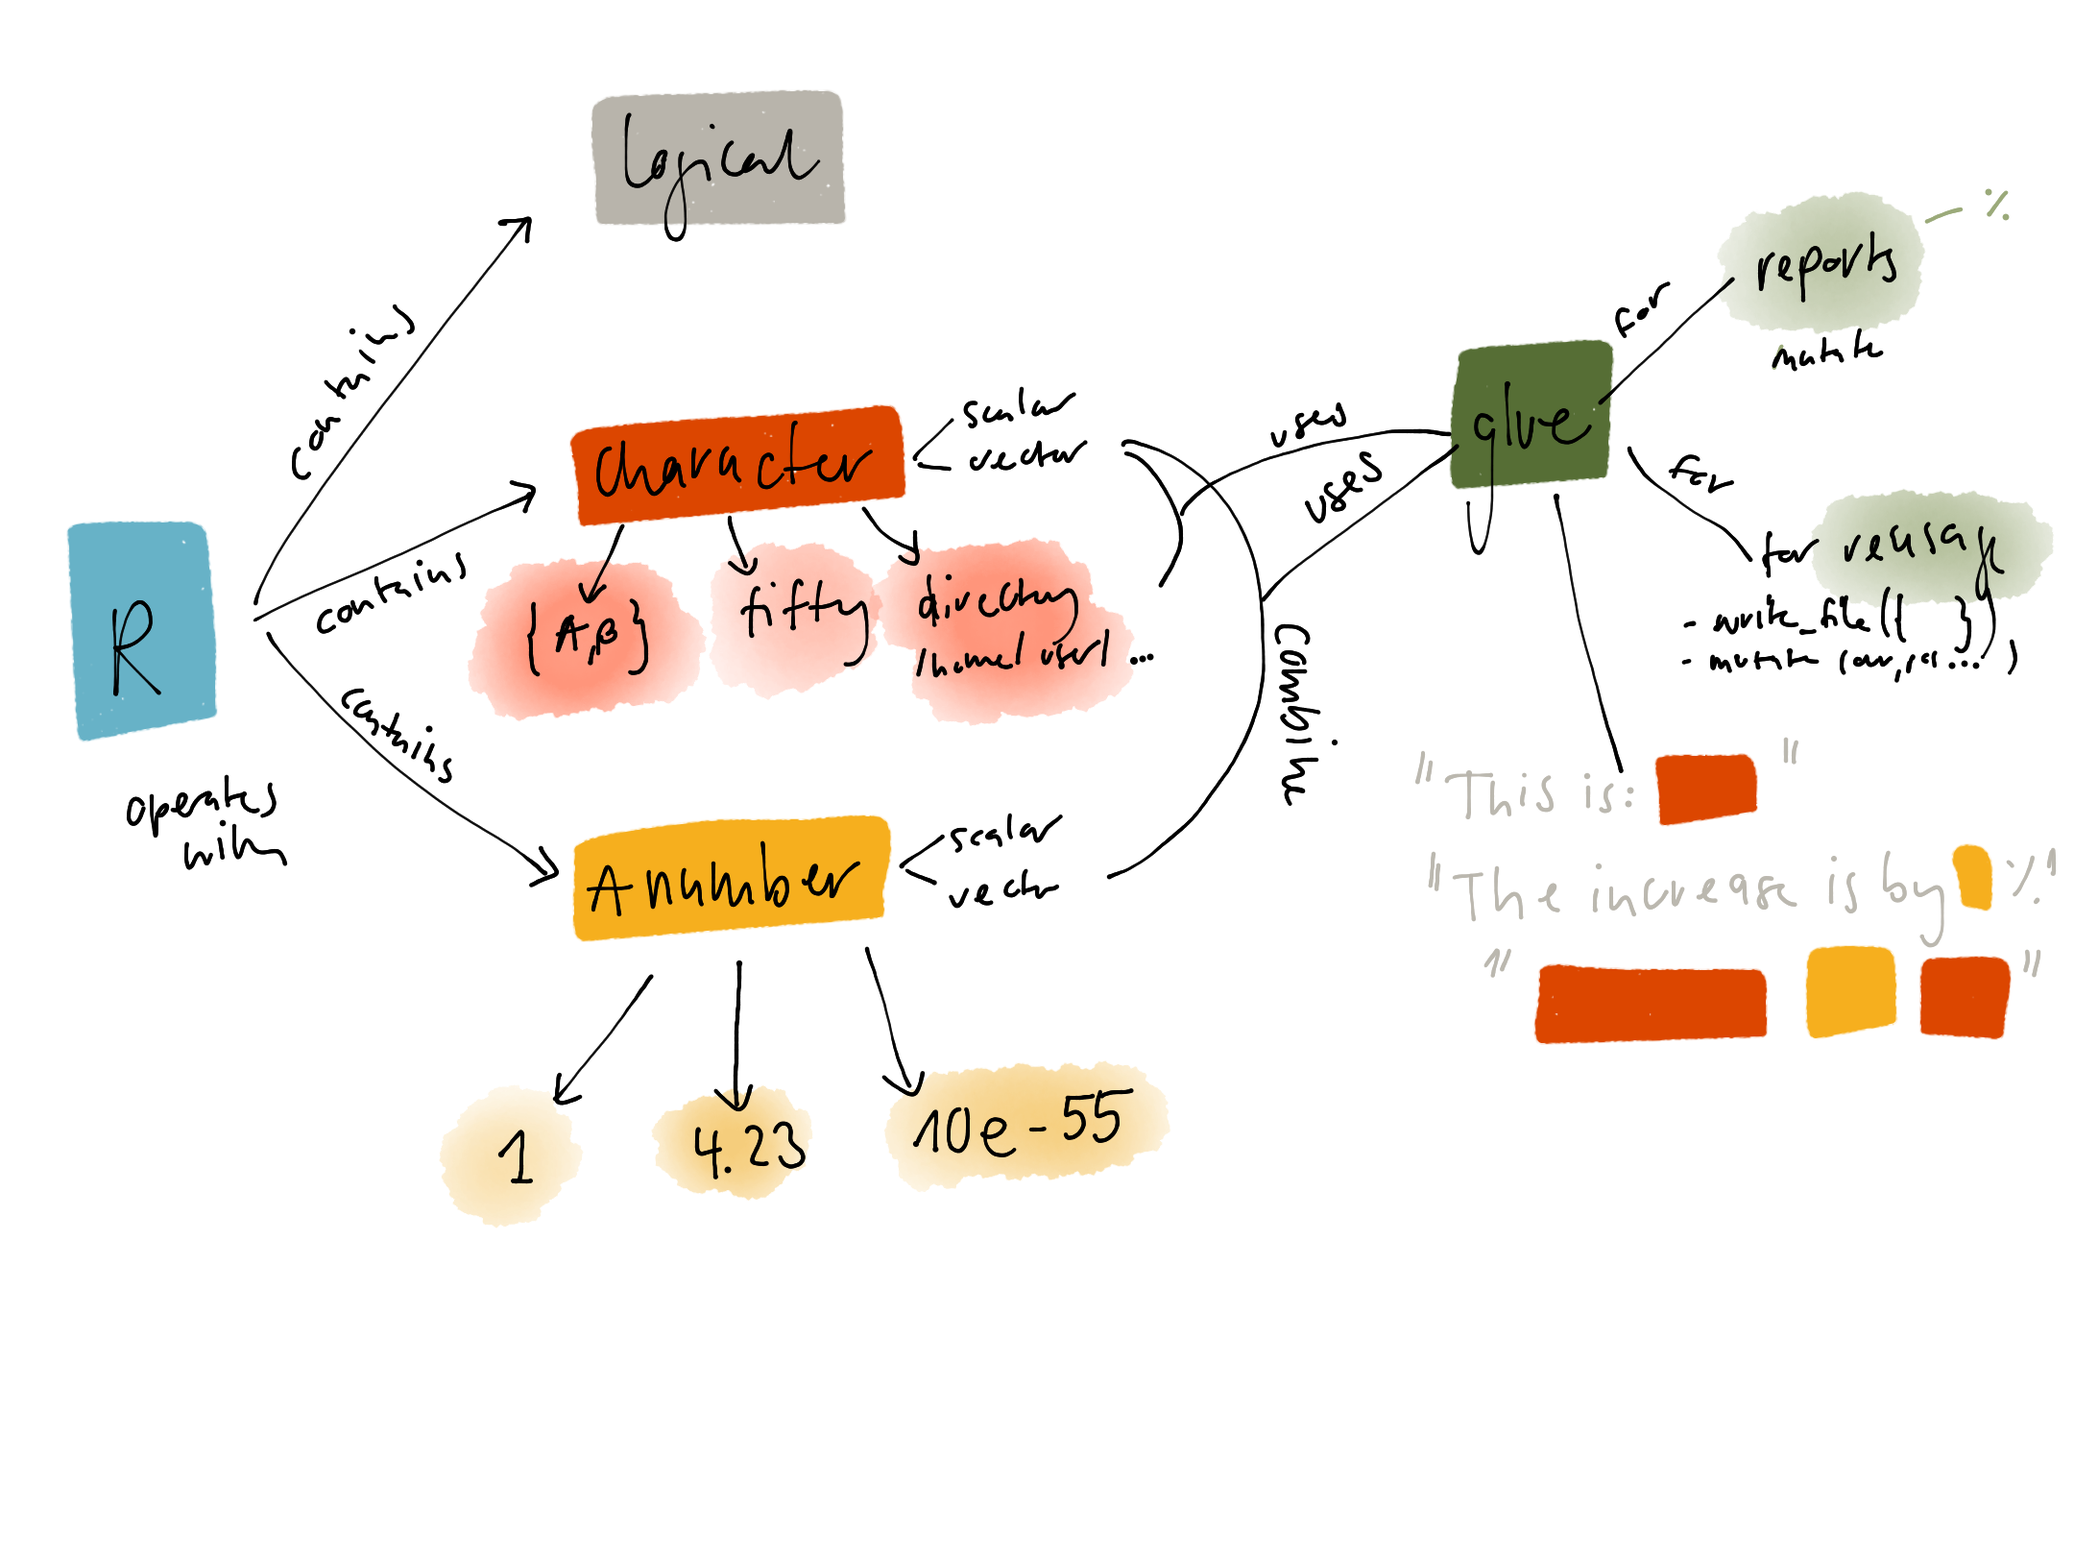
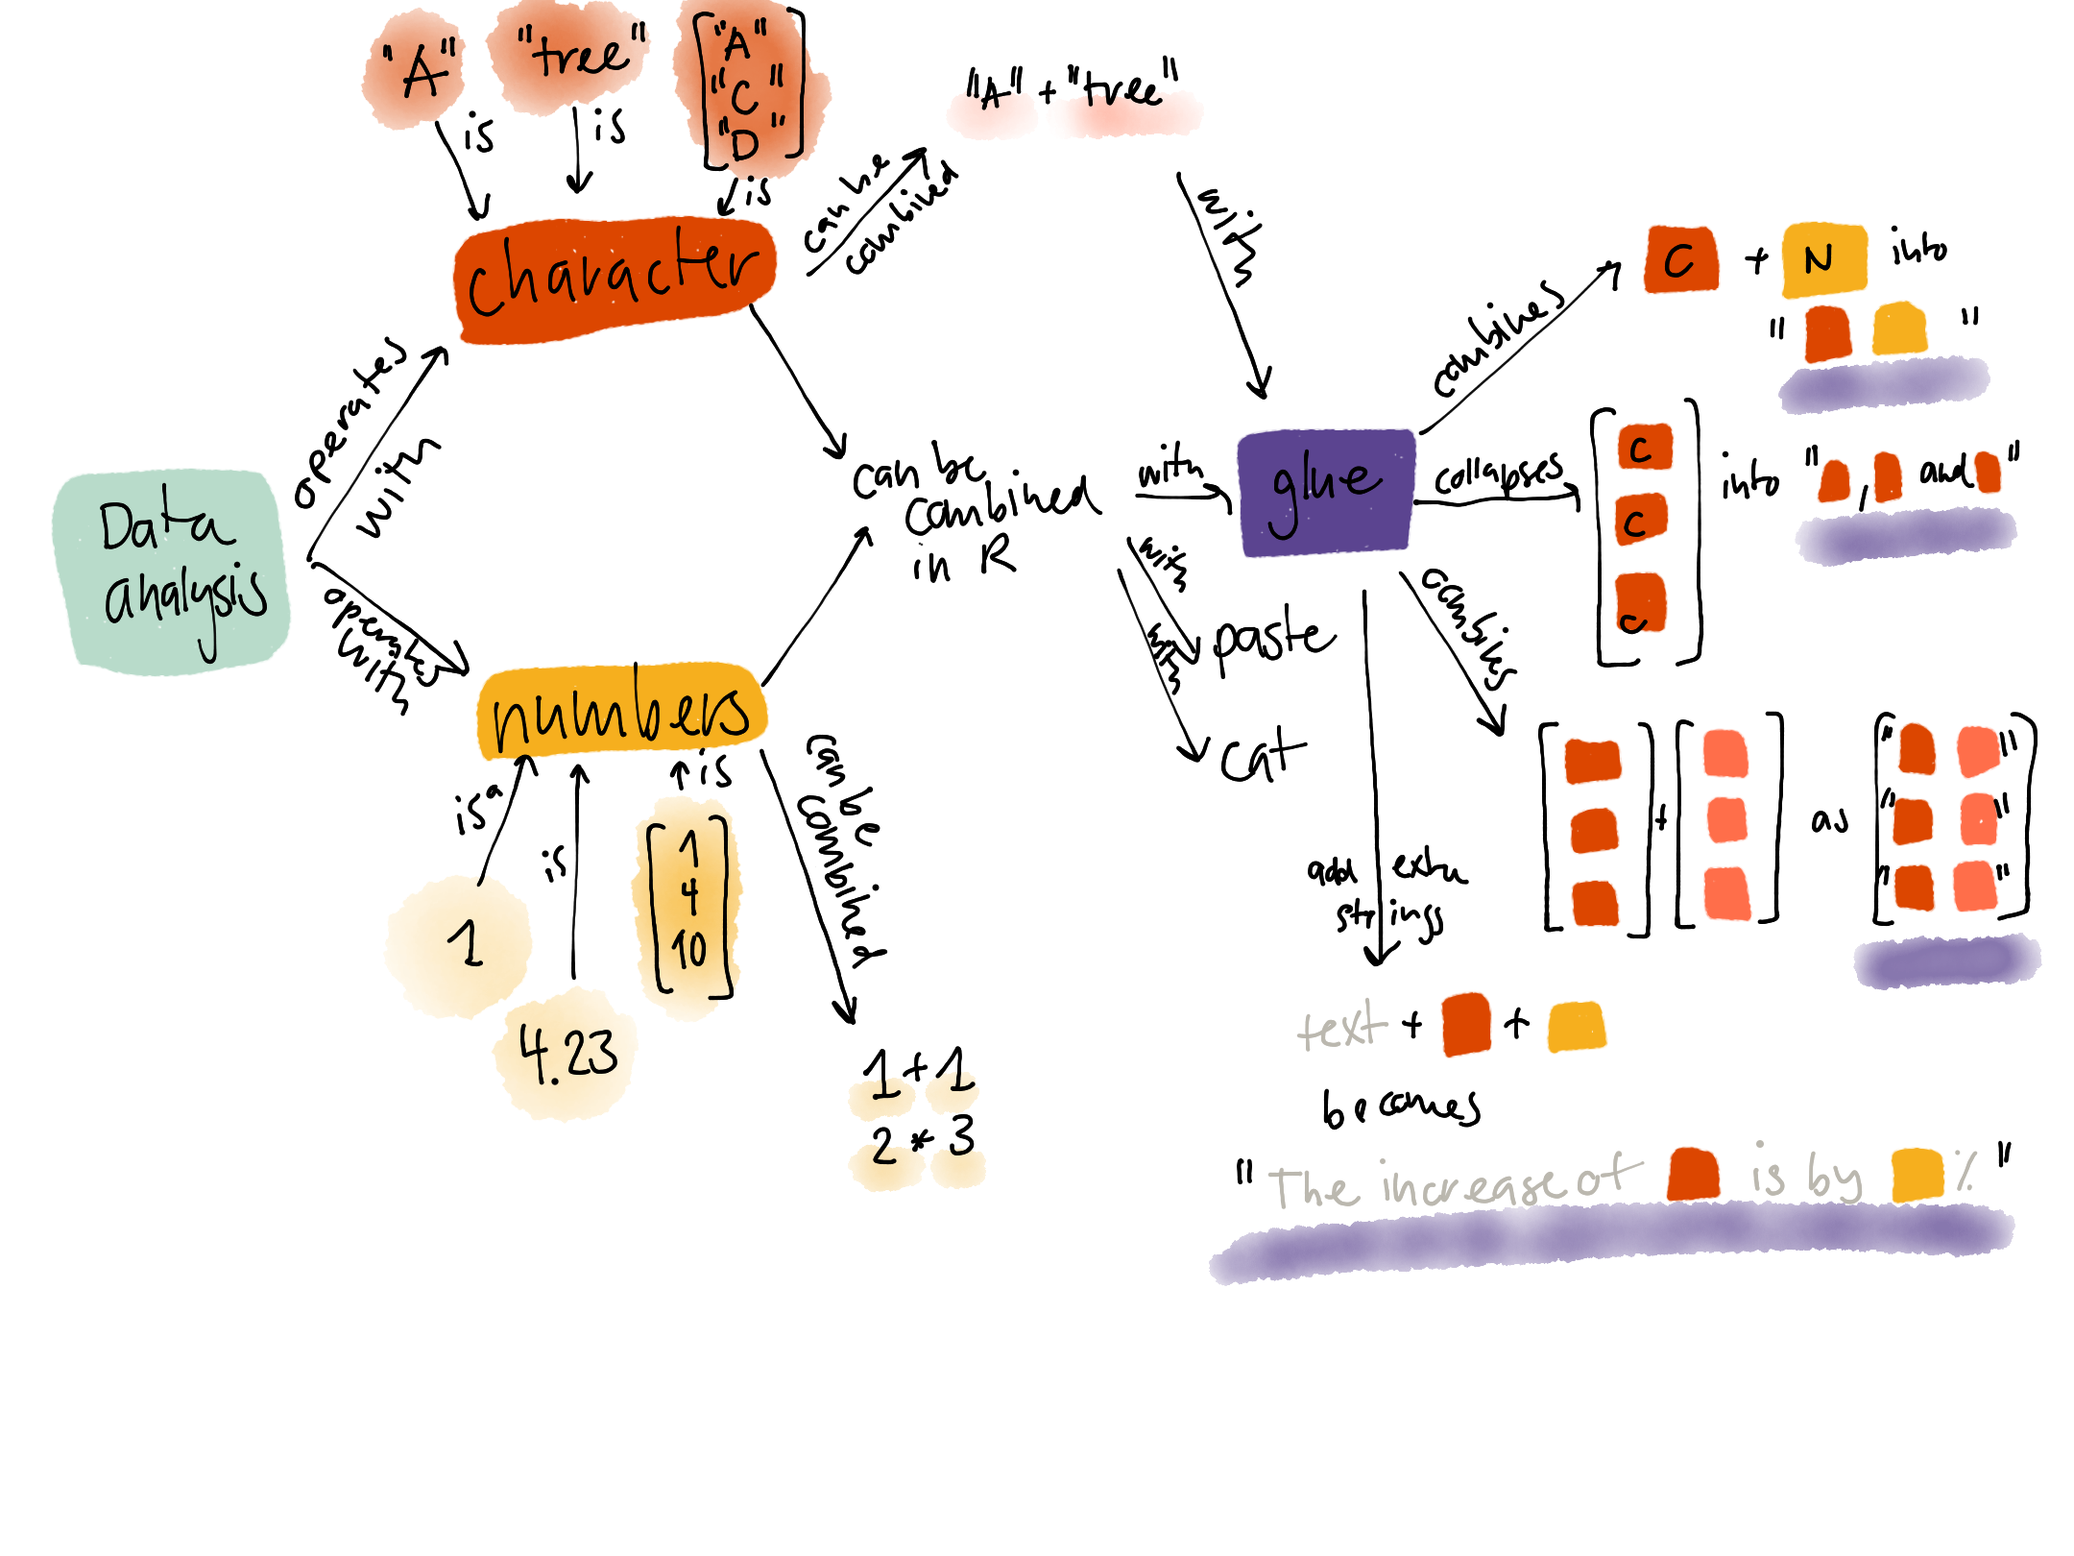
update flides

diff --git a/glue.html b/glue.html
@@ -375,45 +375,66 @@ summary {
 <p>Sometimes you want to do the following:</p>
 <div id="write-analysis-results-as-inline-text" class="section level3">
 <h3>1. Write analysis results as inline text</h3>
-<pre><code>## # A tibble: 100 x 2
-##    id     state        
-##    &lt;fct&gt;  &lt;fct&gt;        
-##  1 id_732 Uusimaa      
-##  2 id_467 Ostrobothnia 
-##  3 id_538 South Karelia
-##  4 id_248 South Karelia
-##  5 id_507 South Karelia
-##  6 id_829 Uusimaa      
-##  7 id_228 Lapland      
-##  8 id_163 Ostrobothnia 
-##  9 id_363 Uusimaa      
-## 10 id_653 Lapland      
-## # … with 90 more rows</code></pre>
+<p>You have a dataset, such as the following data about individuals and their current living region in Finland:</p>
+<pre><code># A tibble: 100 x 2
+   id     state        
+   &lt;fct&gt;  &lt;fct&gt;        
+ 1 id_232 Uusimaa      
+ 2 id_326 Lapland      
+ 3 id_504 Lapland      
+ 4 id_356 Lapland      
+ 5 id_601 South Karelia
+ 6 id_237 South Karelia
+ 7 id_744 Lapland      
+ 8 id_515 Ostrobothnia 
+ 9 id_927 Uusimaa      
+10 id_619 Ostrobothnia 
+# … with 90 more rows</code></pre>
+<p>And you would like to make a statement in an R markdown file as follows:</p>
+<pre><code>```{r}
+states &lt;- &quot;Ostrobothnia, Uusimaa, South Karelia and Lapland&quot;
+```
+The study participants were from four different Finnish states: `r states`. </code></pre>
+<p>so it produces:</p>
+<blockquote>
 <p>The study participants were from four different Finnish states: Ostrobothnia, Uusimaa, South Karelia and Lapland.</p>
+</blockquote>
 </div>
 <div id="create-a-new-column-as-a-function-of-two-text-columns" class="section level3">
 <h3>2. Create a new column as a function of two (text) columns</h3>
-<pre><code>## # A tibble: 3 x 3
-##   chromosome position variant
-##        &lt;dbl&gt;    &lt;dbl&gt; &lt;glue&gt; 
-## 1          1       50 chr1_50
-## 2          1       30 chr1_30
-## 3          3       70 chr3_70</code></pre>
+<p>We can create a new column as a function of two numeric columns, for example calcualte the BMI based on a weight and a height column.</p>
+<p>We can also concatenate columns, ultimately yielding character columns.</p>
+<p>Here is an example where where we concatenate two columns that are integers, but become characters once combined.</p>
+<pre><code># A tibble: 3 x 3
+  chromosome position variant
+       &lt;dbl&gt;    &lt;dbl&gt; &lt;chr&gt;  
+1          1       50 chr1_50
+2          1       30 chr1_30
+3          3       70 chr3_70</code></pre>
 </div>
 <div id="custom-output-file-path" class="section level3">
-<h3>3. custom output file path</h3>
-<p>define a directory at the beginning of a script and store everything there</p>
+<h3>3. Custom output file path</h3>
+<p>During the course of a data analysis, we want to store out data or data visualizations using the same basename <code>/data/haemoglobin/experiment-2020-07-13</code>:</p>
 <pre class="r"><code>## save a plot
 ggsave(&quot;/data/haemoglobin/experiment-2020-07-13.pdf&quot;)
 
 ## save data
 write_tsv(data, path = &quot;/data/haemoglobin/experiment-2020-07-13.tsv&quot;)</code></pre>
+<p>Instead of repetition, it would be handy if we could do the following:</p>
+<pre class="r"><code>basename &lt;- &quot;/data/haemoglobin/experiment-2020-07-13&quot;
+
+## save a plot
+ggsave(&quot;{basename}.pdf&quot;)
+
+## save data
+write_tsv(data, path = &quot;{basename}.tsv&quot;)</code></pre>
 </div>
 </div>
 <div id="solution-combining-r-data-objects-into-strings" class="section level2">
 <h2>Solution: Combining R data objects into strings</h2>
+<p>For these three examples, there is a solution that uses the same framework.</p>
 <p><code>This is some text {NUMBER} and {NUMBER}</code></p>
-<p>For example:</p>
+<p>For example, if we define <code>NUMBER_SUN</code> and <code>NUMBER_SNOW</code>, then</p>
 <pre><code>This year,  South of Finland had on average 
 {NUMBER_SUN} days of sunshine and {NUMBER_SNOW} of days snowfall</code></pre>
 <p>results in</p>
@@ -422,27 +443,39 @@ write_tsv(data, path = &quot;/data/haemoglobin/experiment-2020-07-13.tsv&quot;)<
 </div>
 <div id="glue" class="section level2">
 <h2>Glue!</h2>
+<p>The R package <a href="https://github.com/tidyverse/glue">glue</a> does exactly that.</p>
+<p>Here is the example from before:</p>
 <pre class="r"><code>glue(&quot;This year,  South of Finland had on average {NUMBER_SUN} 
      days of sunshine and {NUMBER_SNOW} of days snowfall&quot;, 
      NUMBER_SUN = 50, NUMBER_SNOW = 3)</code></pre>
 <pre><code>This year,  South of Finland had on average 50 
 days of sunshine and 3 of days snowfall</code></pre>
+<p>If you have used the function <code>paste</code> before, then think of glue as the tidyverse answer to paste.</p>
 </div>
 <div id="live-coding" class="section level2">
 <h2>Live coding</h2>
 <pre class="r"><code>## install.packages(&quot;glue&quot;)
 library(glue)
 library(dplyr)</code></pre>
-<div id="glue-two-scalars" class="section level3">
-<h3>glue two scalars</h3>
+<p>Explore all functions:</p>
+<pre class="r"><code>apropos(&quot;glue&quot;)</code></pre>
+<pre><code> [1] &quot;as_glue&quot;        &quot;glue&quot;           &quot;glue_col&quot;       &quot;glue_collapse&quot; 
+ [5] &quot;glue_data&quot;      &quot;glue_data_col&quot;  &quot;glue_data_safe&quot; &quot;glue_data_sql&quot; 
+ [9] &quot;glue_safe&quot;      &quot;glue_sql&quot;      </code></pre>
+<p>We are going to look at - <code>glue</code> - <code>glue_collapse</code> - <code>glue_data</code></p>
+<div id="glue-two-elements" class="section level3">
+<h3>Glue two elements</h3>
+<p>Glue one element (<code>animals</code>).</p>
 <pre class="r"><code>animals &lt;- &quot;Elephants&quot;
-number &lt;- 3
-glue(&quot;There were {animals}&quot;)</code></pre>
-<pre><code>## There were Elephants</code></pre>
-<pre class="r"><code>glue(&quot;There were {number} {animals}&quot;)</code></pre>
-<pre><code>## There were 3 Elephants</code></pre>
-<pre class="r"><code>glue(&quot;There were {number} {animals}&quot;, number = 2, animals = &quot;Giraffe&quot;)</code></pre>
-<pre><code>## There were 2 Giraffe</code></pre>
+glue(&quot;There were {animals}.&quot;)</code></pre>
+<pre><code>There were Elephants.</code></pre>
+<p>Glue two elements.</p>
+<pre class="r"><code>number &lt;- 3
+glue(&quot;There were {number} {animals}.&quot;)</code></pre>
+<pre><code>There were 3 Elephants.</code></pre>
+<p>Glue two elements, but define them within the `glue`` command.</p>
+<pre class="r"><code>glue(&quot;There were {number} {animals}.&quot;, number = 2, animals = &quot;Giraffe&quot;)</code></pre>
+<pre><code>There were 2 Giraffe.</code></pre>
 </div>
 <div id="exercise" class="section level3">
 <h3>Exercise</h3>
@@ -450,79 +483,115 @@ glue(&quot;There were {animals}&quot;)</code></pre>
 <pre class="r"><code>metric &lt;- &quot;celsius&quot;
 temperature &lt;- 20.2
 glue(&quot;Yesterdays average temperature was [metric] [temperature].&quot;)</code></pre>
-<pre><code>## Yesterdays average temperature was [metric] [temperature].</code></pre>
 </div>
 <div id="collapse-vector" class="section level3">
 <h3>Collapse vector</h3>
 <p>Collapse the elements in a vector</p>
-<pre class="r"><code>genes &lt;- c(&quot;FTO&quot;, &quot;PSCK3&quot;, &quot;DTN3&quot;, &quot;NRT&quot;)
+<pre class="r"><code>genes &lt;- c(&quot;FTO&quot;, &quot;PSCK3&quot;, &quot;DTN3&quot;)
 glue_collapse(genes)</code></pre>
-<pre><code>## FTOPSCK3DTN3NRT</code></pre>
+<pre><code>FTOPSCK3DTN3</code></pre>
+<p>Collapse the elements and separate them with a <code>+</code>.</p>
 <pre class="r"><code>glue_collapse(genes, sep = &quot; + &quot;)</code></pre>
-<pre><code>## FTO + PSCK3 + DTN3 + NRT</code></pre>
+<pre><code>FTO + PSCK3 + DTN3</code></pre>
 </div>
 <div id="exercise-1" class="section level3">
 <h3>Exercise</h3>
-<p>Predict the output of the following R code and choose solution 1, 2 or 3 below.</p>
-<pre class="r"><code>trees &lt;- c(&quot;pine&quot;, &quot;fir&quot;, &quot;cedar&quot;, &quot;spruce&quot;, &quot;hemlock&quot;)
+<p>Predict the output of the following R code and choose solution 1, 2, 3 or 4 below.</p>
+<pre class="r"><code>trees &lt;- c(&quot;pine&quot;, &quot;fir&quot;, &quot;cedar&quot;)
 glue_collapse(trees, sep = &quot;,&quot;, last = &quot;and&quot;)</code></pre>
-<pre><code>## pine,fir,cedar,spruceandhemlock</code></pre>
+<pre><code>pine,firandcedar</code></pre>
 <ol style="list-style-type: decimal">
-<li><code>pine, fir, cedar, spruce and hemlock</code></li>
-<li><code>pine,fir,cedar,spruceandhemlock</code></li>
-<li><code>pine, fir, cedar, spruceandhemlock</code></li>
+<li><code>pine, fir and cedar</code></li>
+<li><code>pine,firandcedar</code></li>
+<li><code>pine,fir,cedar</code></li>
+<li><code>pine, firandcedar</code></li>
 </ol>
 </div>
 <div id="create-new-column-with-pipe" class="section level3">
 <h3>Create new column with pipe</h3>
 <pre class="r"><code>starwars %&gt;% select(name, homeworld) %&gt;% mutate(name_homeworld = glue(&quot;{name} ({homeworld})&quot;))</code></pre>
-<pre><code>## # A tibble: 87 x 3
-##    name               homeworld name_homeworld               
-##    &lt;chr&gt;              &lt;chr&gt;     &lt;glue&gt;                       
-##  1 Luke Skywalker     Tatooine  Luke Skywalker (Tatooine)    
-##  2 C-3PO              Tatooine  C-3PO (Tatooine)             
-##  3 R2-D2              Naboo     R2-D2 (Naboo)                
-##  4 Darth Vader        Tatooine  Darth Vader (Tatooine)       
-##  5 Leia Organa        Alderaan  Leia Organa (Alderaan)       
-##  6 Owen Lars          Tatooine  Owen Lars (Tatooine)         
-##  7 Beru Whitesun lars Tatooine  Beru Whitesun lars (Tatooine)
-##  8 R5-D4              Tatooine  R5-D4 (Tatooine)             
-##  9 Biggs Darklighter  Tatooine  Biggs Darklighter (Tatooine) 
-## 10 Obi-Wan Kenobi     Stewjon   Obi-Wan Kenobi (Stewjon)     
-## # … with 77 more rows</code></pre>
+<pre><code># A tibble: 87 x 3
+   name               homeworld name_homeworld               
+   &lt;chr&gt;              &lt;chr&gt;     &lt;glue&gt;                       
+ 1 Luke Skywalker     Tatooine  Luke Skywalker (Tatooine)    
+ 2 C-3PO              Tatooine  C-3PO (Tatooine)             
+ 3 R2-D2              Naboo     R2-D2 (Naboo)                
+ 4 Darth Vader        Tatooine  Darth Vader (Tatooine)       
+ 5 Leia Organa        Alderaan  Leia Organa (Alderaan)       
+ 6 Owen Lars          Tatooine  Owen Lars (Tatooine)         
+ 7 Beru Whitesun lars Tatooine  Beru Whitesun lars (Tatooine)
+ 8 R5-D4              Tatooine  R5-D4 (Tatooine)             
+ 9 Biggs Darklighter  Tatooine  Biggs Darklighter (Tatooine) 
+10 Obi-Wan Kenobi     Stewjon   Obi-Wan Kenobi (Stewjon)     
+# … with 77 more rows</code></pre>
 </div>
 <div id="create-new-vector-with-pipe" class="section level3">
 <h3>Create new vector with pipe</h3>
+<p>If we want a vector instead, we can use <code>glue_data</code> directly on the two columns.</p>
 <pre class="r"><code>vec &lt;- starwars %&gt;% glue_data(&quot;{name} ({homeworld})&quot;, .na = &quot;unknown&quot;)
 head(vec)</code></pre>
-<pre><code>## Luke Skywalker (Tatooine)
-## C-3PO (Tatooine)
-## R2-D2 (Naboo)
-## Darth Vader (Tatooine)
-## Leia Organa (Alderaan)
-## Owen Lars (Tatooine)</code></pre>
+<pre><code>Luke Skywalker (Tatooine)
+C-3PO (Tatooine)
+R2-D2 (Naboo)
+Darth Vader (Tatooine)
+Leia Organa (Alderaan)
+Owen Lars (Tatooine)</code></pre>
 </div>
 <div id="exercise-2" class="section level3">
 <h3>Exercise</h3>
-<p>iven the data below, create an extra column id, which is a combination of element and measure, separated with an underscore (e.g. <code>1_A</code>)</p>
+<p>Given the data</p>
 <pre class="r"><code>dat &lt;- data.frame(element = c(1, 1, 2, 2), 
-                  measure = c(&quot;A&quot;, &quot;B&quot;, &quot;A&quot;, &quot;B&quot;))</code></pre>
+                  measure = c(&quot;A&quot;, &quot;B&quot;, &quot;A&quot;, &quot;B&quot;))
+dat</code></pre>
+<pre><code>  element measure
+1       1       A
+2       1       B
+3       2       A
+4       2       B</code></pre>
+<p>create an extra column <code>id</code>, which is a combination of <code>element</code> and <code>measure</code>, separated with an underscore (e.g. <code>1</code> and <code>A</code> become <code>1_A</code>)</p>
+<pre><code>  element measure  id
+1       1       A 1_A
+2       1       B 1_B
+3       2       A 2_A
+4       2       B 2_B</code></pre>
+</div>
+</div>
+<div id="fix-intial-problems" class="section level2">
+<h2>Fix intial problems</h2>
+<div id="write-analysis-results-as-inline-text-1" class="section level3">
+<h3>1. Write analysis results as inline text</h3>
+<pre><code>```{r}
+states &lt;- c(&quot;Ostrobothnia&quot;, &quot;Uusimaa&quot;, &quot;South Karelia&quot;, &quot;Lapland&quot;)
+```
+The study participants were from four different Finnish states: `r glue(states, sep = &quot;, &quot;, last = &quot; and &quot;)`. </code></pre>
+</div>
+<div id="create-a-new-column-as-a-function-of-two-text-columns-1" class="section level3">
+<h3>2. Create a new column as a function of two (text) columns</h3>
+<pre class="r"><code>dat &lt;- as_tibble(data.frame(chromosome = c(1, 1, 3), position = c(50, 30, 70)) %&gt;% 
+  mutate(variant = as.character(glue(&quot;chr{chromosome}_{position}&quot;))))
+dat</code></pre>
+<pre><code># A tibble: 3 x 3
+  chromosome position variant
+       &lt;dbl&gt;    &lt;dbl&gt; &lt;chr&gt;  
+1          1       50 chr1_50
+2          1       30 chr1_30
+3          3       70 chr3_70</code></pre>
 </div>
 <div id="combine-directory-and-file-name" class="section level3">
-<h3>Combine directory and file name</h3>
-<pre class="r"><code>dat &lt;- starwars %&gt;% select(name, homeworld) 
-dir &lt;- &quot;/Users/rueger/Projects/&quot; 
-filename &lt;- &quot;table_1.txt&quot;
+<h3>3. Combine directory and file name</h3>
+<p>Lastly, to answer problem 3) from the beginning:</p>
+<pre class="r"><code>dir &lt;- &quot;/data/haemoglobin/&quot;
+basename &lt;- &quot;experiment-2020-07-13&quot;
 
-readr::write_tsv(dat, path = glue(&quot;{dir}{filename}&quot;))</code></pre>
+## save a plot
+ggsave(glue(&quot;{dir}{basename}.pdf&quot;))
+
+## save data
+write_tsv(data, path = glue(&quot;{dir}{basename}.tsv&quot;))</code></pre>
 </div>
 </div>
 <div id="find-out-more" class="section level2">
 <h2>Find out more</h2>
-<pre class="r"><code>apropos(&quot;glue&quot;)</code></pre>
-<pre><code>##  [1] &quot;as_glue&quot;        &quot;glue&quot;           &quot;glue_col&quot;       &quot;glue_collapse&quot; 
-##  [5] &quot;glue_data&quot;      &quot;glue_data_col&quot;  &quot;glue_data_safe&quot; &quot;glue_data_sql&quot; 
-##  [9] &quot;glue_safe&quot;      &quot;glue_sql&quot;</code></pre>
 <ul>
 <li><a href="https://glue.tidyverse.org/index.html" class="uri">https://glue.tidyverse.org/index.html</a></li>
 <li>glue also appears in the <a href="https://raw.githubusercontent.com/rstudio/cheatsheets/master/strings.pdf"><code>stringr</code> cheatsheet</a></li>
